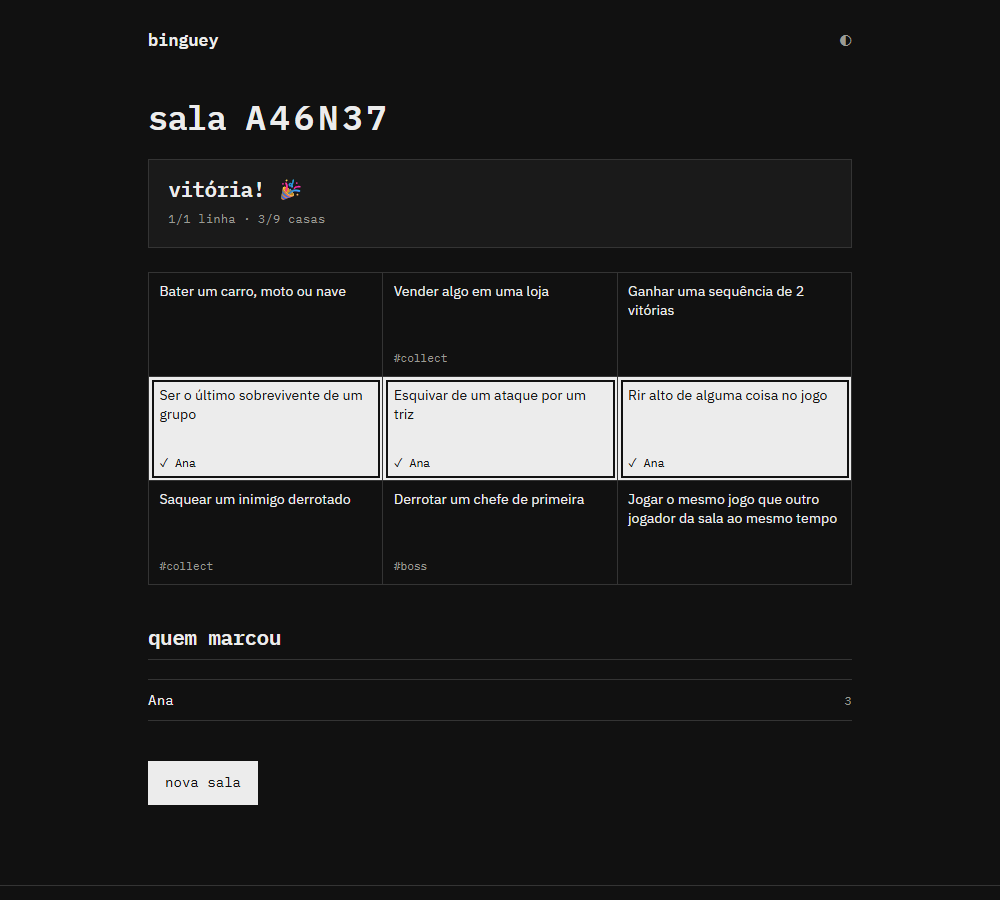
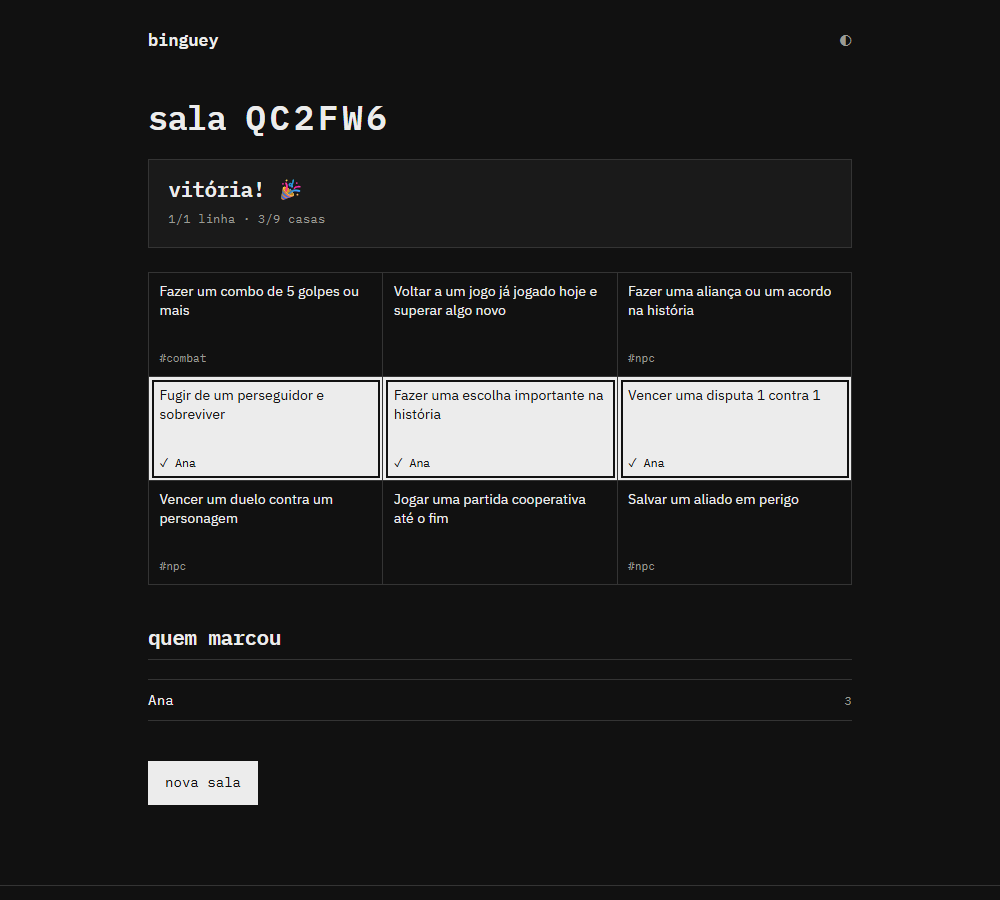
fix: campo 'como vencer' cortava o texto; refaz os prints do README com os objetivos novos

diff --git a/apps/web/src/styles/app.css b/apps/web/src/styles/app.css
@@ -29,7 +29,7 @@
 .campo textarea { resize: vertical; min-height: 6rem; }
 .campo input:focus, .campo select:focus, .campo textarea:focus { outline: none; border-color: var(--texto); }
 .campo .dica { display: block; margin-top: 0.3rem; }
-.grade-campos { display: grid; grid-template-columns: repeat(auto-fit, minmax(9rem, 1fr)); gap: 0 1rem; }
+.grade-campos { display: grid; grid-template-columns: repeat(auto-fit, minmax(12rem, 1fr)); gap: 0 1rem; }
 .acoes { display: flex; gap: 0.75rem; align-items: center; flex-wrap: wrap; }
 
 .lista { list-style: none; margin: 0; padding: 0; }
